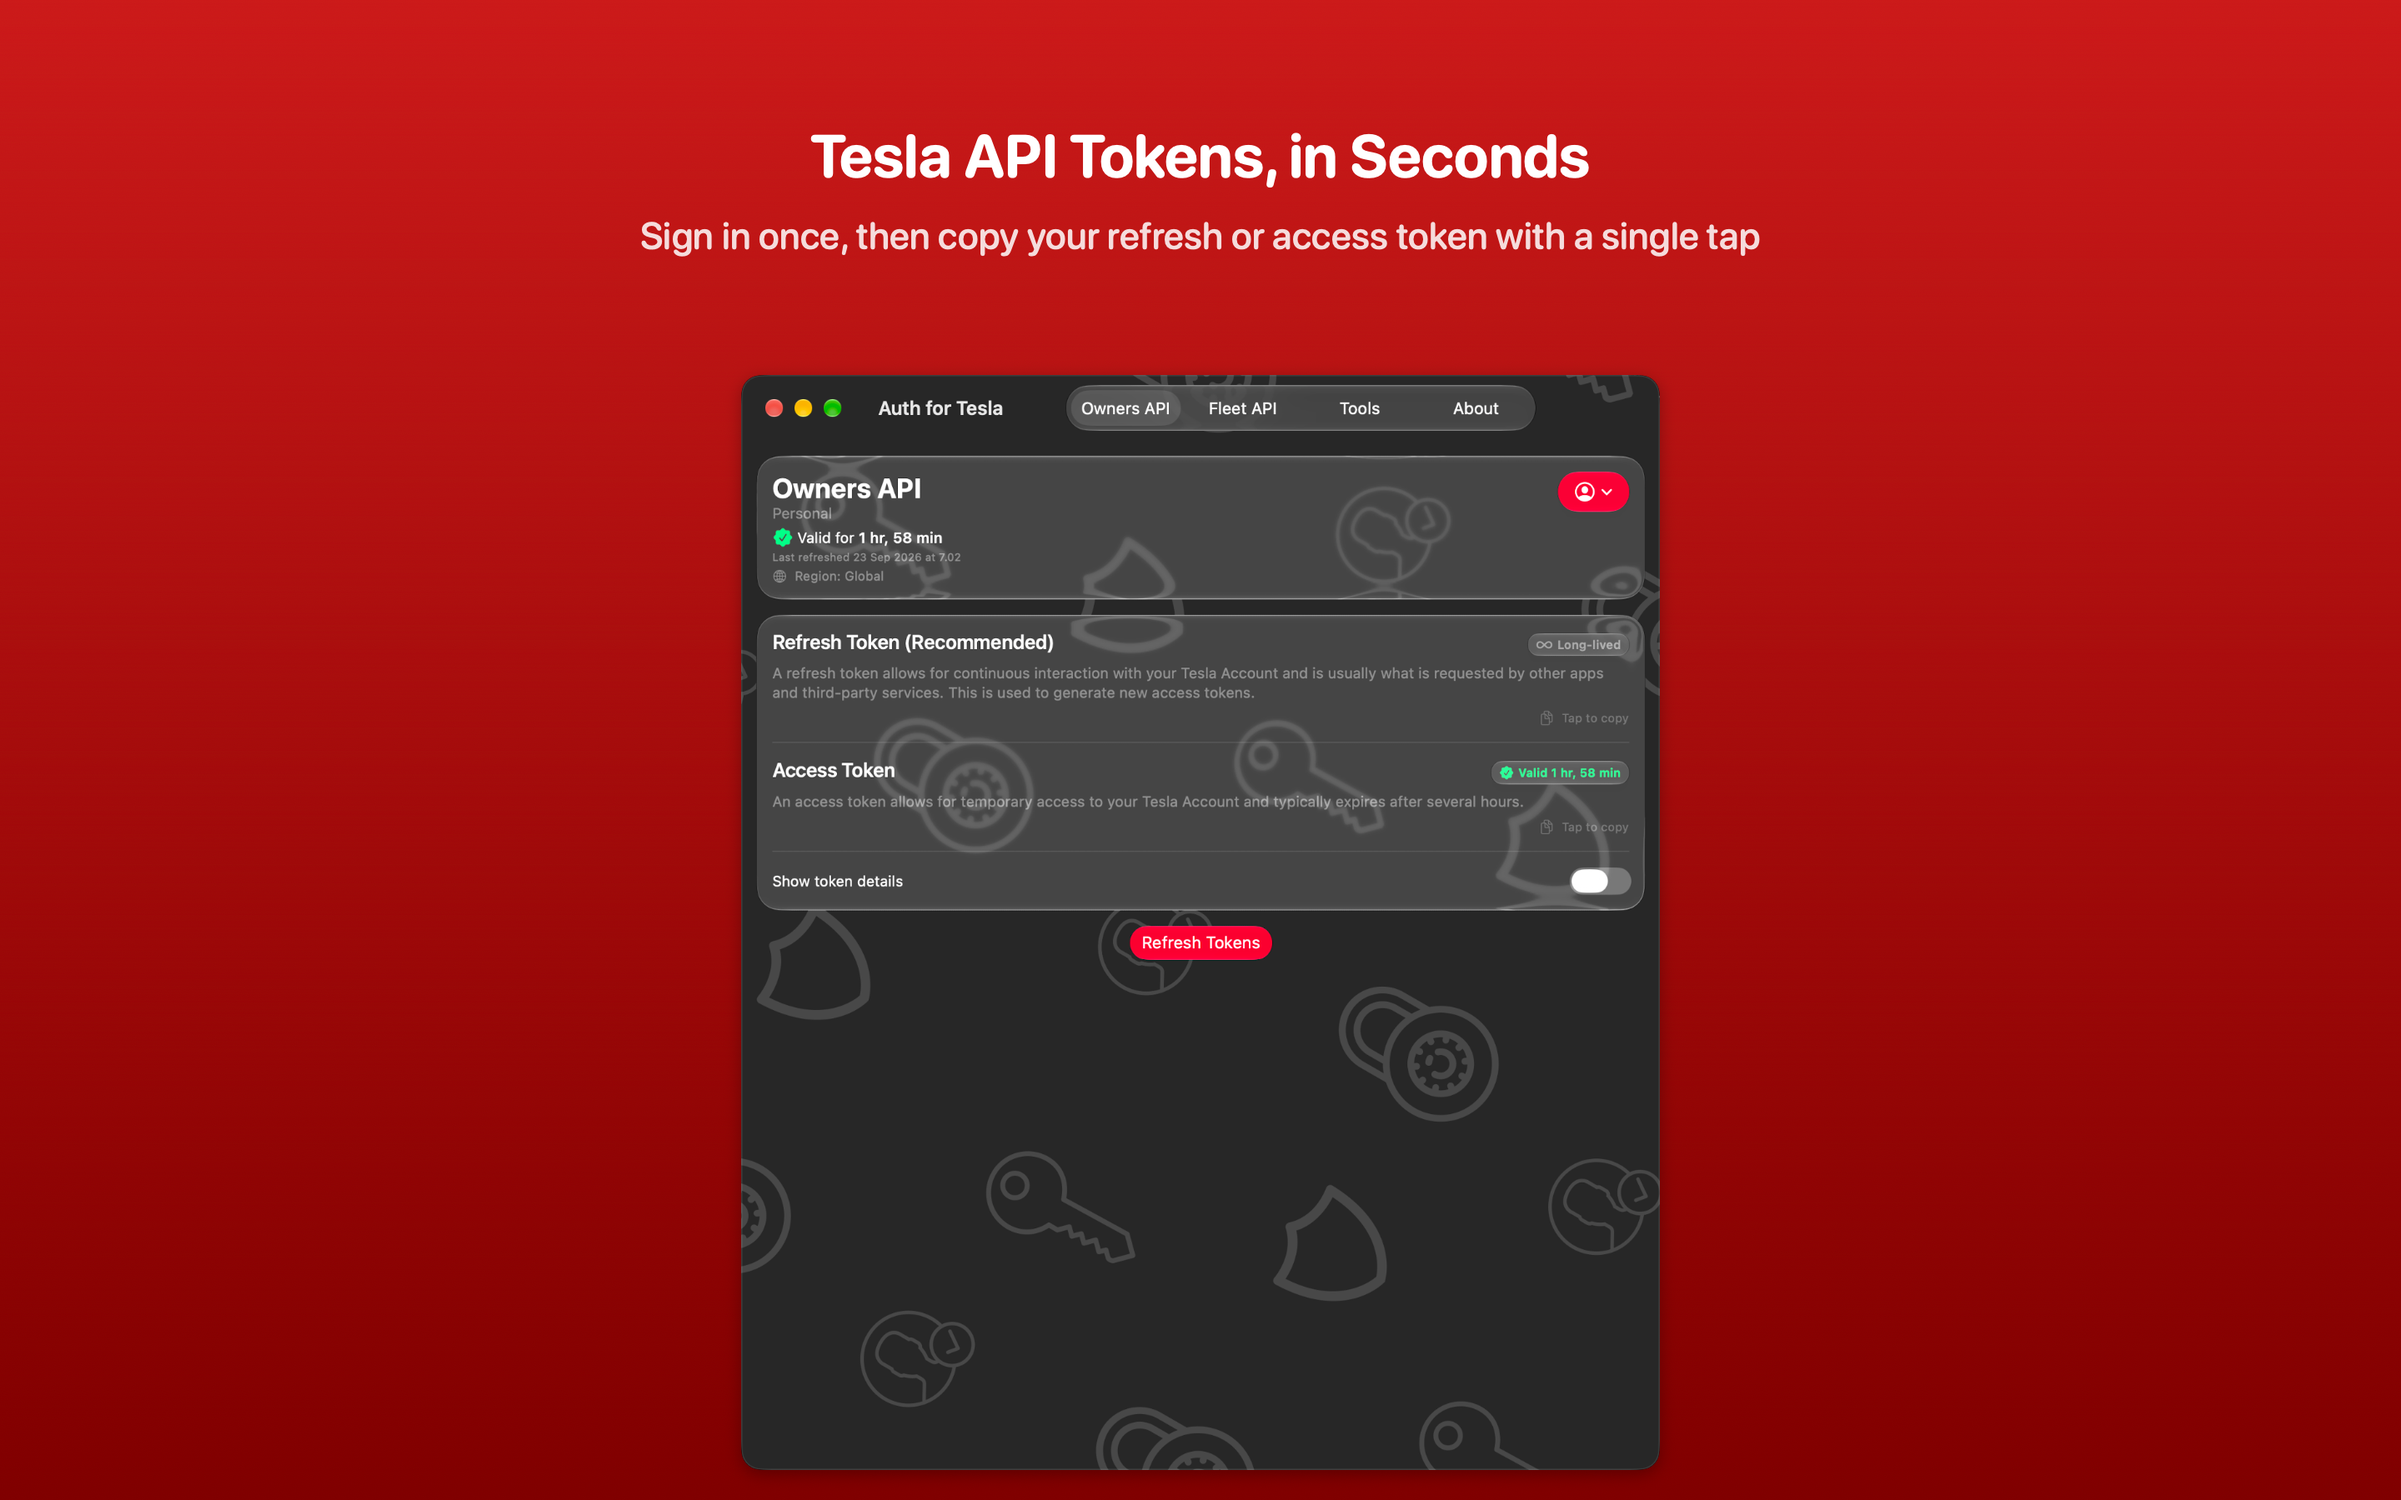
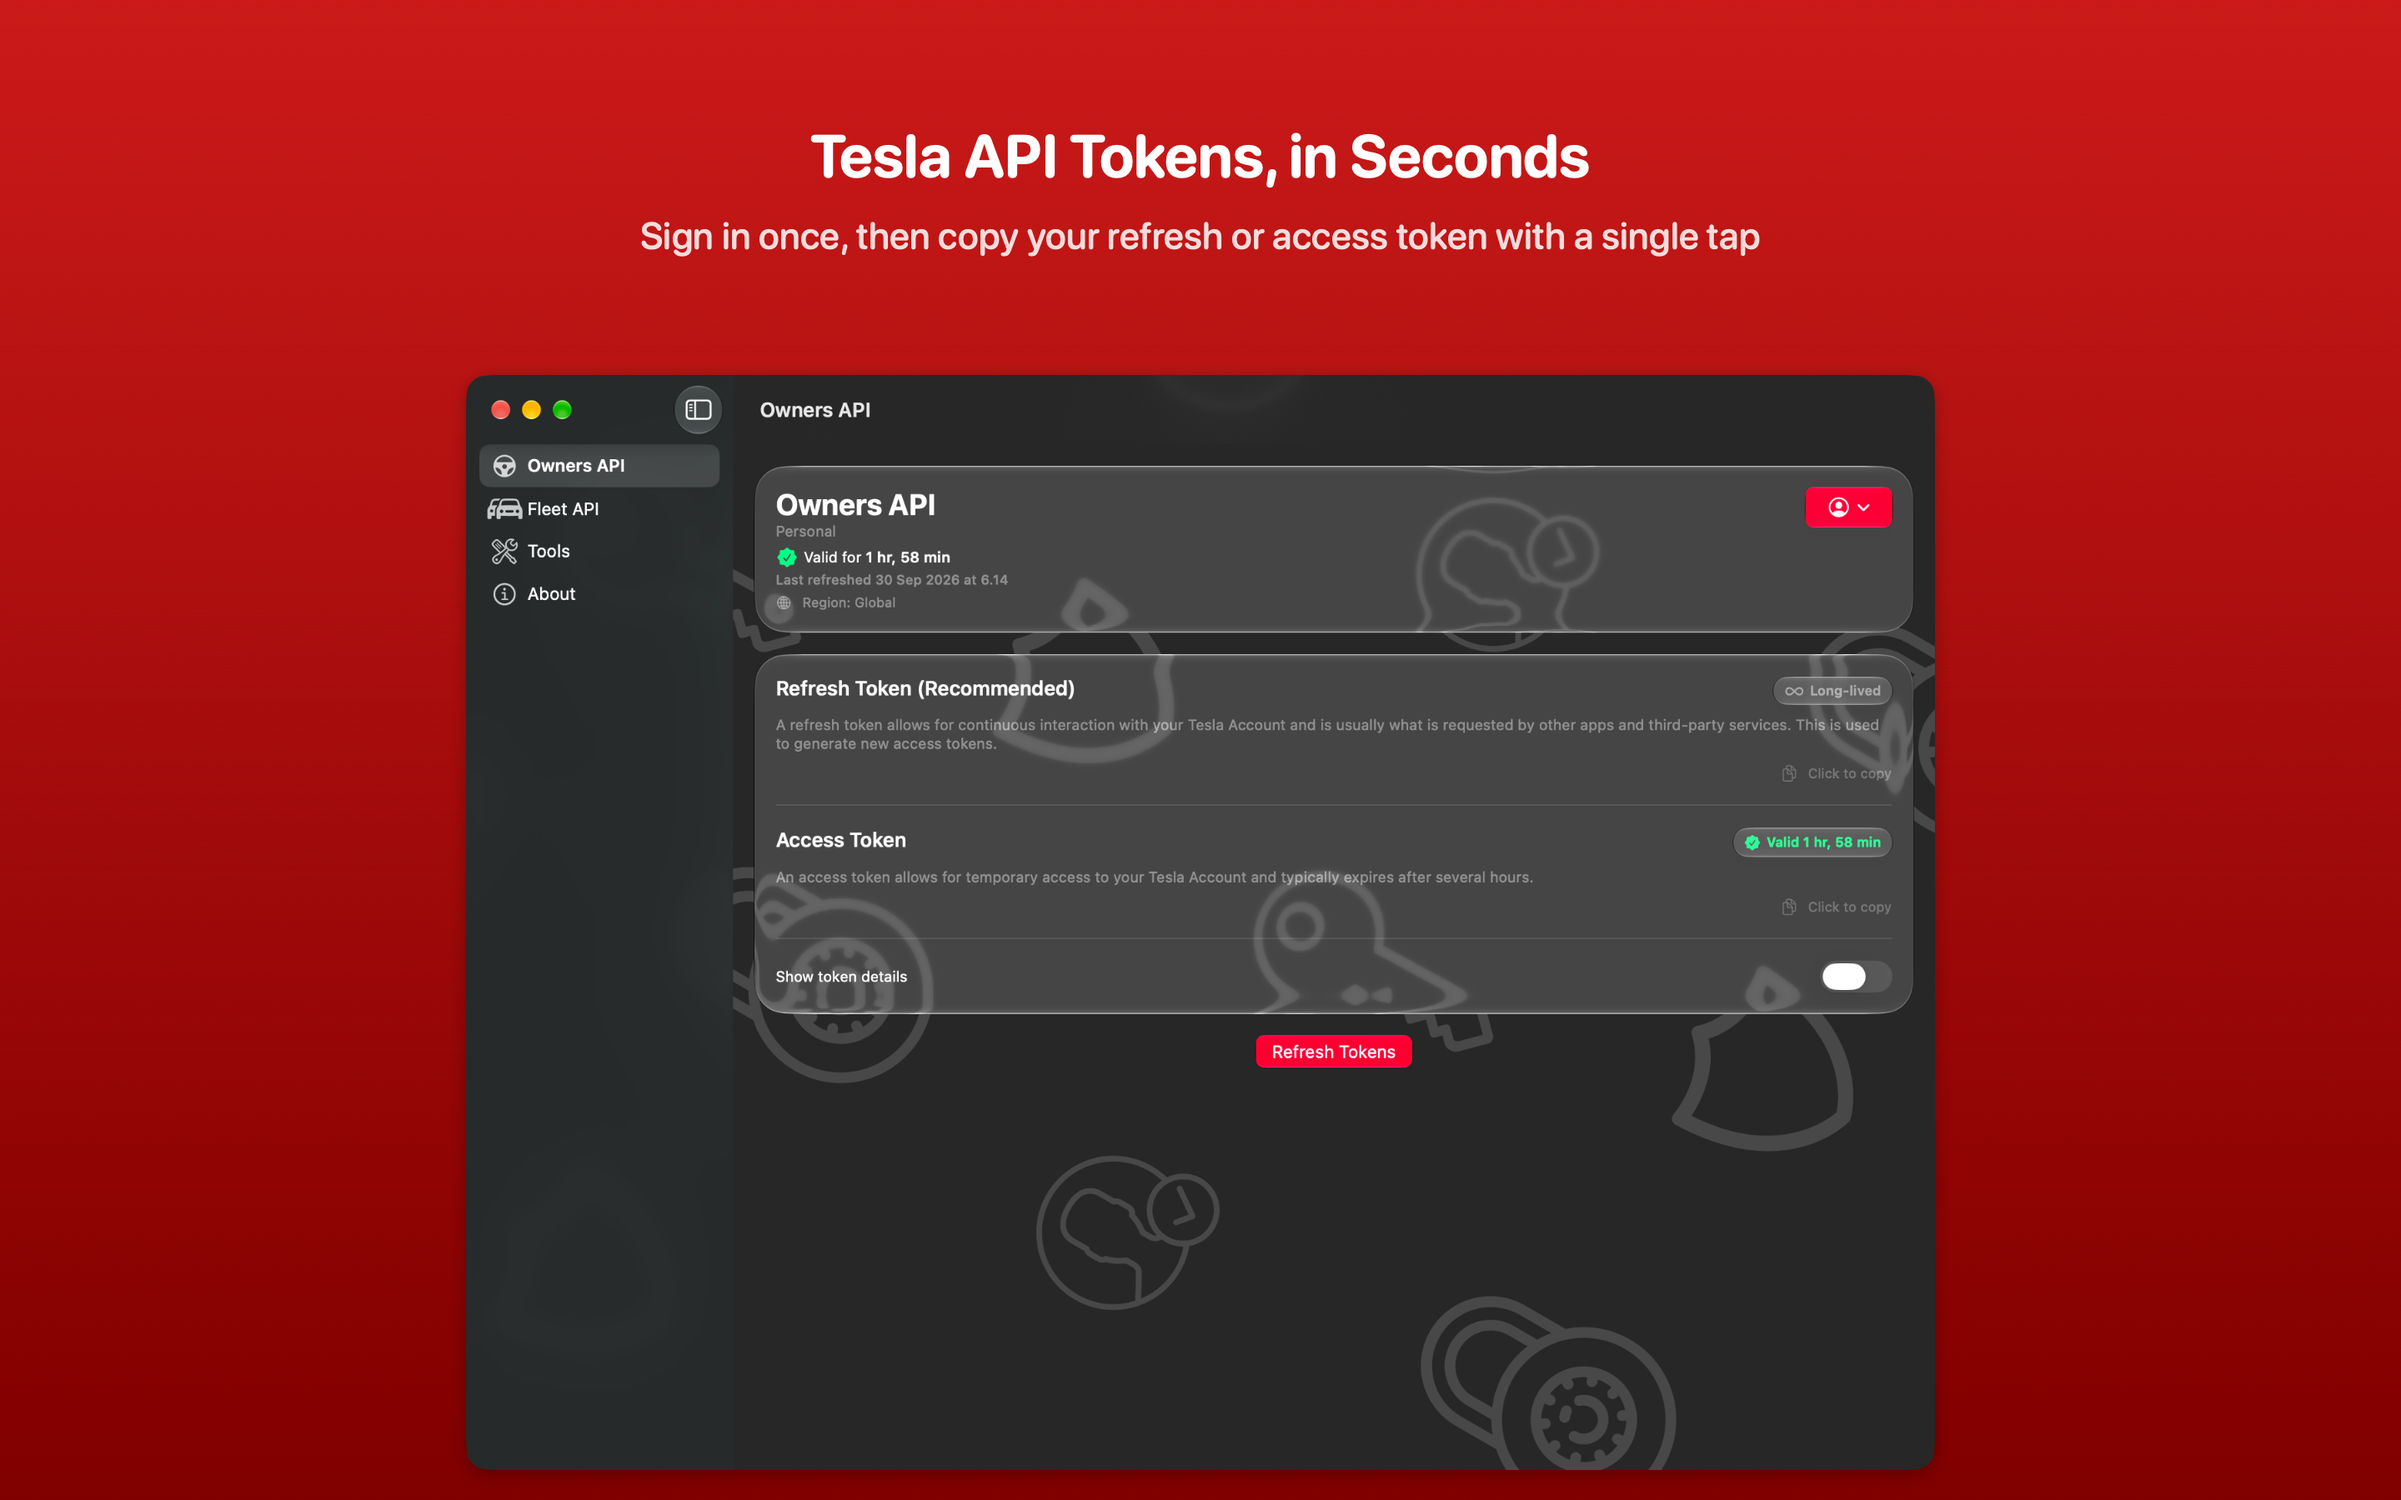
Mac screenshots recaptured from the native app (#44 phase 4)
- The eight App Store scenes, captured by the Mac app's own harness
  (Screenshots/capture-mac.sh, the presented window) and framed with
  drsframer: Screenshots/Rendered/mac_*.png replace the Catalyst ones.
- appstore.json capture: macCatalyst off; the Mac is captured with
  capture-mac.sh.
- The details toggle on the Mac: label leading, switch trailing, as on
  iOS (the iOS toggle is back to exactly what it was).

Claude-Session: https://claude.ai/code/session_01GFgMJMWujLGxqGpjWL6Twd

diff --git a/Shared/View/HomeView.swift b/Shared/View/HomeView.swift
@@ -45,10 +45,21 @@ struct HomeView: View {
                             showDetails: showDetails
                         )
                         Divider()
+                        #if os(macOS)
+                        // A Mac switch sits beside its label; iOS puts it
+                        // on the trailing edge, as here.
+                        HStack {
+                            Text("Show token details")
+                            Spacer()
+                            Toggle("Show token details", isOn: $showDetails)
+                                .toggleStyle(.switch)
+                                .labelsHidden()
+                        }
+                        .font(.subheadline)
+                        #else
                         Toggle("Show token details", isOn: $showDetails)
                             .font(.subheadline)
-                            .toggleStyle(.switch)
-                            .fullWidthToggle()
+                        #endif
                     }
                     .padding(AppSpacing.cardInner)
                     .glassEffect(.clear, in: .rect(cornerRadius: AppCornerRadius.container))

diff --git a/Shared/View/Shared/PlatformModifiers.swift b/Shared/View/Shared/PlatformModifiers.swift
@@ -46,14 +46,4 @@ extension View {
         self
         #endif
     }
-
-    /// A switch with its label on the leading edge and the switch on the
-    /// trailing edge, as iOS lays out every toggle.
-    func fullWidthToggle() -> some View {
-        #if os(macOS)
-        frame(maxWidth: .infinity, alignment: .leading)
-        #else
-        self
-        #endif
-    }
 }
